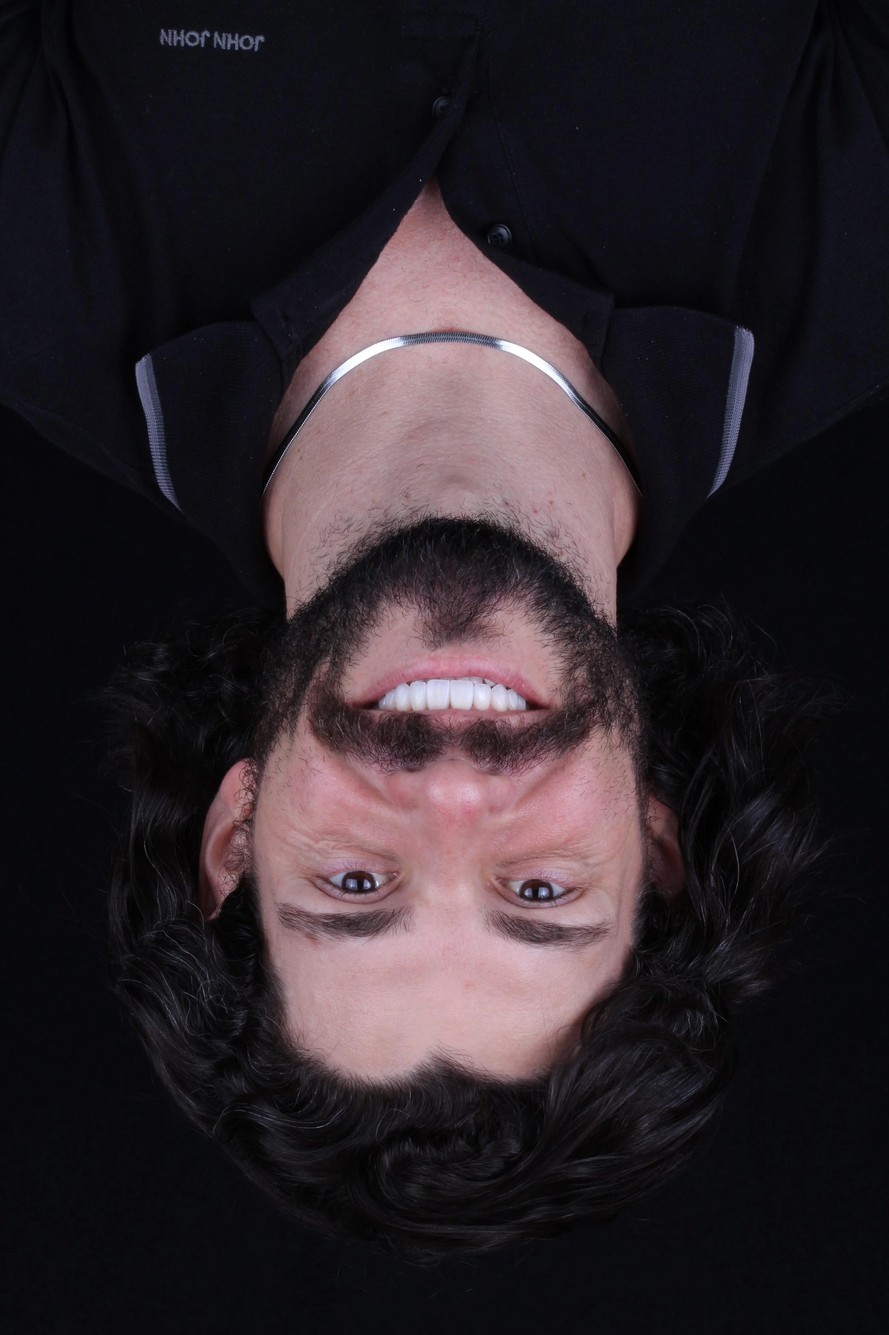
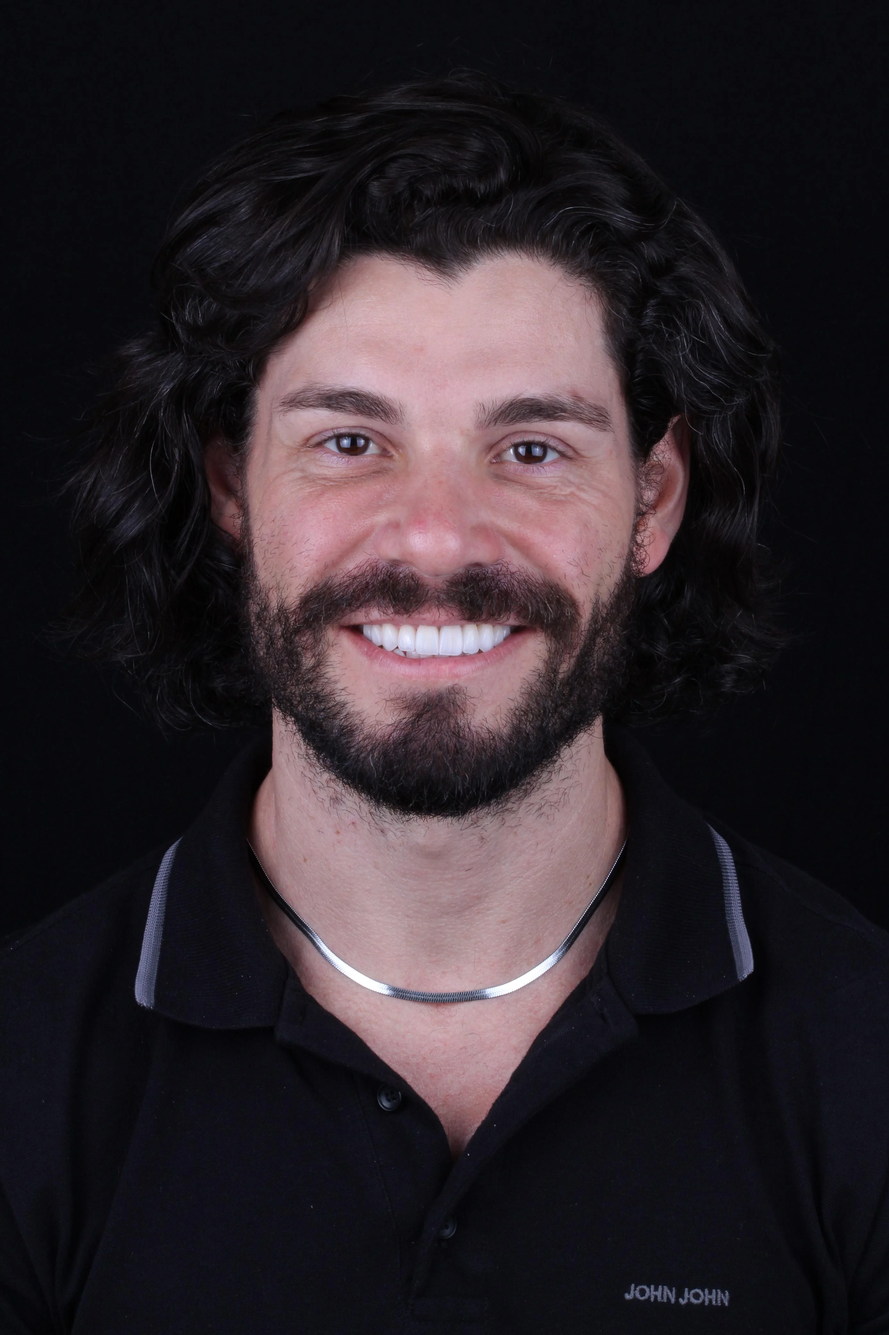
fix: corrige orientação novo-11, remove fotos do dr. (laptop e câmera)
- novo-11: rotação corrigida (estava de cabeça pra baixo após fix anterior)
- novo-42 (dr. com laptop) e novo-44 (dr. com câmera) removidos da galeria
- Apenas casos clínicos de pacientes mantidos

diff --git a/src/components/CasesGallery.tsx b/src/components/CasesGallery.tsx
@@ -67,8 +67,6 @@ import novo35 from '@/assets/marcio/casos-novos/novo-35.webp';
 import novo36 from '@/assets/marcio/casos-novos/novo-36.webp';
 import novo37 from '@/assets/marcio/casos-novos/novo-37.webp';
 import novo38 from '@/assets/marcio/casos-novos/novo-38.webp';
-import novo42 from '@/assets/marcio/casos-novos/novo-42.webp';
-import novo44 from '@/assets/marcio/casos-novos/novo-44.webp';
 
 // Casos Instagram
 import insta01 from '@/assets/marcio/casos-novos/insta-01.webp';
@@ -118,8 +116,6 @@ const caseImages = [
   { src: insta13, alt: 'Caso estético' },
   { src: novo36, alt: 'Resultado dental' },
   { src: insta14, alt: 'Reabilitação oral final' },
-  { src: novo42, alt: 'Resultado estético' },
-  { src: novo44, alt: 'Transformação final' },
   // Restantes originais
   { src: caso06, alt: 'Restauração estética - antes e depois' },
   { src: caso09, alt: 'Caso clínico de reabilitação' },

diff --git a/src/pages/Galeria.tsx b/src/pages/Galeria.tsx
@@ -58,8 +58,6 @@ import novo35 from '@/assets/marcio/casos-novos/novo-35.webp';
 import novo36 from '@/assets/marcio/casos-novos/novo-36.webp';
 import novo37 from '@/assets/marcio/casos-novos/novo-37.webp';
 import novo38 from '@/assets/marcio/casos-novos/novo-38.webp';
-import novo42 from '@/assets/marcio/casos-novos/novo-42.webp';
-import novo44 from '@/assets/marcio/casos-novos/novo-44.webp';
 
 // Instagram
 import insta01 from '@/assets/marcio/casos-novos/insta-01.webp';
@@ -83,7 +81,7 @@ const allImages = [
   novo15, novo16, novo17, novo18, novo19, novo20, novo21,
   novo22, novo23, novo24, novo25, novo26, novo27, novo28,
   novo29, novo30, novo31, novo32, novo33, novo34, novo35,
-  novo36, novo37, novo38, novo42, novo44,
+  novo36, novo37, novo38,
   // Instagram
   insta01, insta02, insta03, insta04, insta05, insta06, insta07,
   insta09, insta10, insta11, insta12, insta13, insta14,
